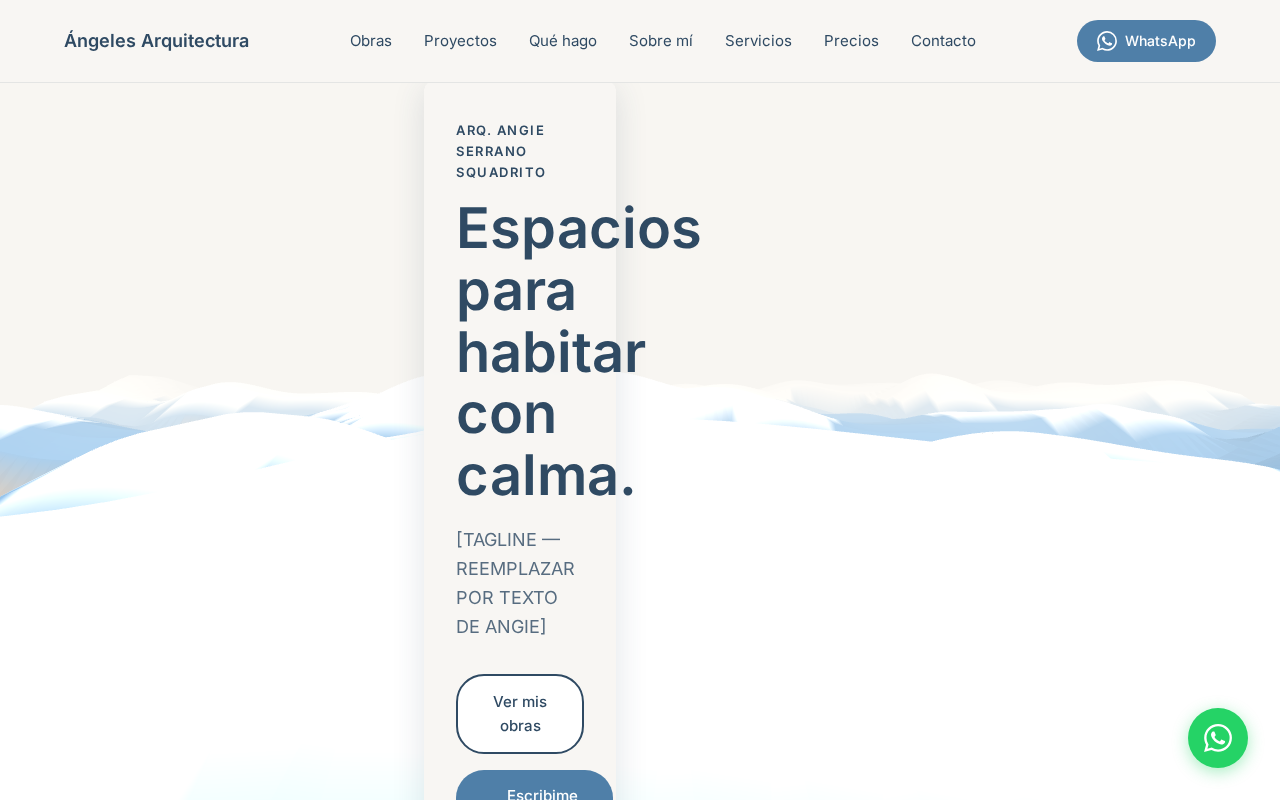
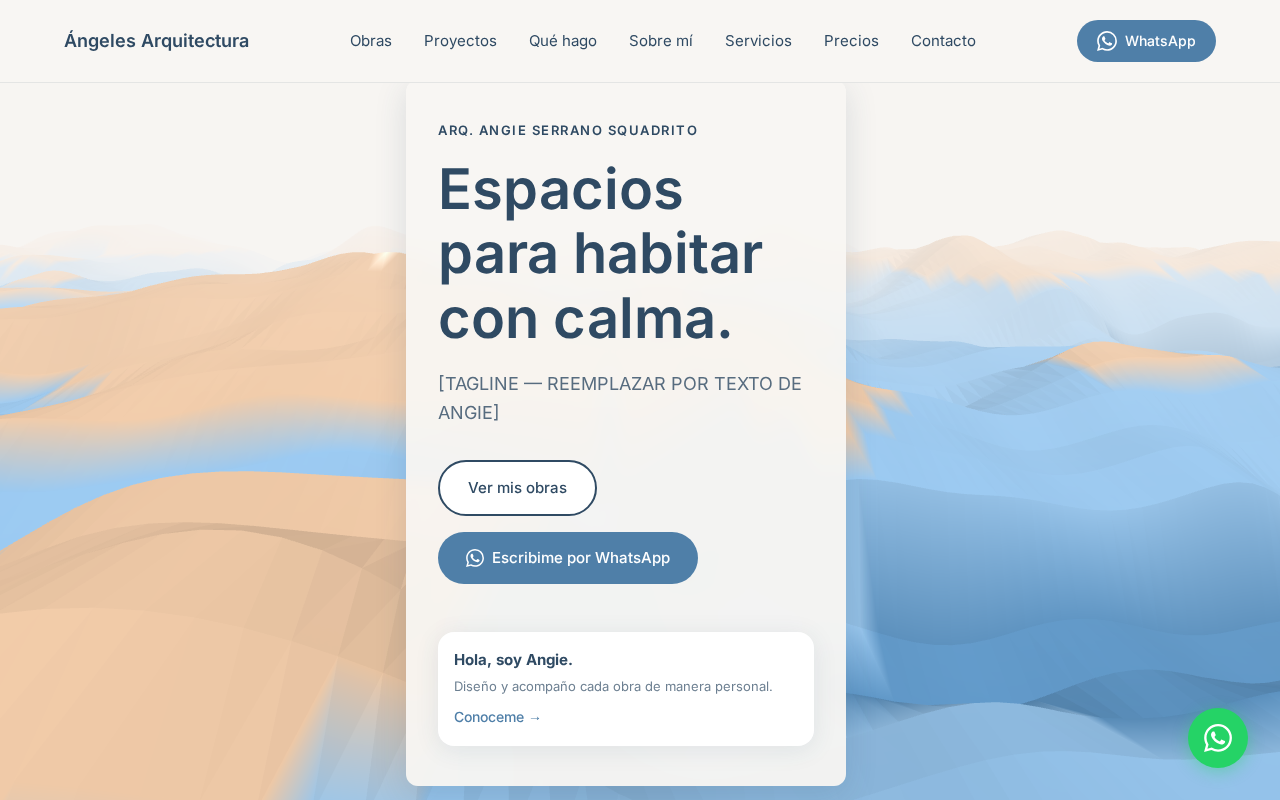
Implement 3D low-poly terrain hero with correct palette and layout
- Update terrain colors: deep blue valleys (#4F7FA8), soft blue (#7FA7C9), sand (#C9A98C), nude peaks (#E8DCCB)
- Camera tilted down to show terrain filling >=70% of art area
- Desktop layout: text panel left (min 440px, headline <=3 lines), terrain right, no overlap
- Mobile layout: terrain in full-width block under header, text panel below, no gap
- Enable preserveDrawingBuffer for WebGL pixel testing
- Add test for blue-dominant canvas pixels (b > r+30)
- Capture desktop (1280x800) and mobile (390x844) screenshots after 3s settle

diff --git a/test-hero-canvas.spec.js b/test-hero-canvas.spec.js
@@ -4,7 +4,7 @@ const BASE_URL = process.env.BASE_URL || 'http://localhost:8080';
 
 test.describe('Hero Canvas Rendering', () => {
   
-  test('unwoven canvas renders non-blank content', async ({ page }) => {
+  test('landscape terrain renders with blue valleys', async ({ page }) => {
     await page.goto(BASE_URL);
     
     // Wait for canvas to be created and attached
@@ -18,8 +18,8 @@ test.describe('Hero Canvas Rendering', () => {
       return c.width > 0 && c.height > 0;
     }, { timeout: 5000 });
     
-    // Wait for scene to initialize (Three.js + GSAP with longer delay for animation)
-    await page.waitForTimeout(1500);
+    // Wait for scene to initialize (Three.js with longer delay for terrain animation)
+    await page.waitForTimeout(2000);
     await page.evaluate(() => new Promise(r => {
       requestAnimationFrame(() => requestAnimationFrame(() => requestAnimationFrame(r)));
     }));
@@ -46,20 +46,55 @@ test.describe('Hero Canvas Rendering', () => {
     expect(canvasInfo.bufferWidth).toBeGreaterThan(0);
     expect(canvasInfo.bufferHeight).toBeGreaterThan(0);
     
-    // Verify canvas is non-blank by checking WebGL rendering
-    const hasRendered = await page.evaluate(() => {
+    // Verify canvas has blue-dominant pixels (terrain valleys)
+    const pixelAnalysis = await page.evaluate(() => {
       const canvas = document.querySelector('canvas');
       const gl = canvas.getContext('webgl2') || canvas.getContext('webgl') || canvas.getContext('experimental-webgl');
-      if (!gl) return false;
+      if (!gl) return { hasBlue: false, blueCount: 0, totalSamples: 0, samplePixels: [] };
       
-      // Check that drawingBufferWidth/Height are set (indicates WebGL is active)
-      return gl.drawingBufferWidth > 0 && gl.drawingBufferHeight > 0;
+      // Read WebGL pixels directly using readPixels
+      const width = gl.drawingBufferWidth;
+      const height = gl.drawingBufferHeight;
+      const pixels = new Uint8Array(width * height * 4);
+      gl.readPixels(0, 0, width, height, gl.RGBA, gl.UNSIGNED_BYTE, pixels);
+      
+      // Sample multiple points across the canvas
+      const samples = 100;
+      let blueCount = 0;
+      const samplePixels = [];
+      
+      for (let i = 0; i < samples; i++) {
+        const x = Math.floor(Math.random() * width);
+        const y = Math.floor(Math.random() * height);
+        const idx = (y * width + x) * 4;
+        const r = pixels[idx];
+        const g = pixels[idx + 1];
+        const b = pixels[idx + 2];
+        
+        // Store sample for debugging
+        if (i < 10) {
+          samplePixels.push({ r, g, b, x, y });
+        }
+        
+        // Check if blue is dominant (b > r+30)
+        if (b > r + 30) {
+          blueCount++;
+        }
+      }
+      
+      // At least 15% of sampled pixels should be blue-dominant
+      return {
+        hasBlue: blueCount >= samples * 0.15,
+        blueCount,
+        totalSamples: samples,
+        samplePixels
+      };
     });
     
-    expect(hasRendered).toBe(true);
+    expect(pixelAnalysis.hasBlue).toBe(true);
   });
   
-  test('unwoven canvas renders non-blank on mobile', async ({ page }) => {
+  test('landscape terrain renders on mobile with blue valleys', async ({ page }) => {
     await page.setViewportSize({ width: 390, height: 844 });
     await page.goto(BASE_URL);
     
@@ -73,7 +108,7 @@ test.describe('Hero Canvas Rendering', () => {
     }, { timeout: 5000 });
     
     // Wait for rendering with longer timeout for mobile
-    await page.waitForTimeout(1500);
+    await page.waitForTimeout(2000);
     await page.evaluate(() => new Promise(r => {
       requestAnimationFrame(() => requestAnimationFrame(() => requestAnimationFrame(r)));
     }));
@@ -88,12 +123,49 @@ test.describe('Hero Canvas Rendering', () => {
     
     expect(hasRendered).toBe(true);
     
-    // Check art is visible on mobile (height >= 40vh)
+    // Check art is visible on mobile (height >= 45vh)
     const artHeight = await page.evaluate(() => {
       const canvas = document.querySelector('canvas');
       return canvas ? canvas.getBoundingClientRect().height : 0;
     });
     
-    expect(artHeight).toBeGreaterThanOrEqual(844 * 0.40);
+    expect(artHeight).toBeGreaterThanOrEqual(844 * 0.45);
+    
+    // Verify blue-dominant pixels on mobile too
+    const pixelAnalysis = await page.evaluate(() => {
+      const canvas = document.querySelector('canvas');
+      const gl = canvas.getContext('webgl2') || canvas.getContext('webgl') || canvas.getContext('experimental-webgl');
+      if (!gl) return { hasBlue: false, blueCount: 0, totalSamples: 0 };
+      
+      // Read WebGL pixels directly
+      const width = gl.drawingBufferWidth;
+      const height = gl.drawingBufferHeight;
+      const pixels = new Uint8Array(width * height * 4);
+      gl.readPixels(0, 0, width, height, gl.RGBA, gl.UNSIGNED_BYTE, pixels);
+      
+      const samples = 100;
+      let blueCount = 0;
+      
+      for (let i = 0; i < samples; i++) {
+        const x = Math.floor(Math.random() * width);
+        const y = Math.floor(Math.random() * height);
+        const idx = (y * width + x) * 4;
+        const r = pixels[idx];
+        const g = pixels[idx + 1];
+        const b = pixels[idx + 2];
+        
+        if (b > r + 30) {
+          blueCount++;
+        }
+      }
+      
+      return {
+        hasBlue: blueCount >= samples * 0.15,
+        blueCount,
+        totalSamples: samples
+      };
+    });
+    
+    expect(pixelAnalysis.hasBlue).toBe(true);
   });
 });

diff --git a/index.html b/index.html
@@ -42,14 +42,21 @@
             background: rgba(248, 246, 242, 0.95);
             padding: 2.5rem 2rem;
             border-radius: 12px;
-            max-width: 480px;
-            width: 40%;
+            min-width: 440px;
+            max-width: 520px;
+            width: 42%;
             margin-left: 5%;
             backdrop-filter: blur(8px);
             box-shadow: 0 8px 32px rgba(47, 74, 99, 0.15);
         }
         
-        /* Mobile: art in full-width block (~45vh) above text, no overlap */
+        /* Ensure headline stays on max 3 lines */
+        .hero-title {
+            line-height: 1.15;
+            max-width: 100%;
+        }
+        
+        /* Mobile: art in full-width block (~50vh) above text, no overlap */
         @media (max-width: 768px) {
             .hero { 
                 min-height: 100vh;
@@ -60,7 +67,7 @@
             
             .hero-canvas-stage {
                 position: relative;
-                height: 45vh;
+                height: 50vh;
                 width: 100%;
                 flex-shrink: 0;
             }
@@ -74,6 +81,7 @@
             
             .hero-content {
                 width: auto;
+                min-width: auto;
                 max-width: none;
                 margin: 0 1.5rem;
                 padding: 2rem 1.5rem;
@@ -637,13 +645,13 @@
   let mouse = { x: 0, y: 0, xDamped: 0, yDamped: 0 };
   const isMobile = typeof window.orientation !== 'undefined';
 
-  // Angie's palette colors (hex to RGB)
+  // Angie's palette colors for terrain (hex to RGB)
+  // From valleys (deep blue) to peaks (nude)
   const palette = [
-    { r: 232/255, g: 220/255, b: 203/255 }, // #E8DCCB
-    { r: 201/255, g: 169/255, b: 140/255 }, // #C9A98C
-    { r: 127/255, g: 167/255, b: 201/255 }, // #7FA7C9
-    { r: 248/255, g: 246/255, b: 242/255 }, // #F8F6F2
-    { r: 47/255, g: 74/255, b: 99/255 }      // #2F4A63
+    { r: 79/255, g: 127/255, b: 168/255 },  // #4F7FA8 - deep blue valleys
+    { r: 127/255, g: 167/255, b: 201/255 }, // #7FA7C9 - soft blue
+    { r: 201/255, g: 169/255, b: 140/255 }, // #C9A98C - sand
+    { r: 232/255, g: 220/255, b: 203/255 }  // #E8DCCB - nude peaks
   ];
 
   init();
@@ -657,13 +665,15 @@
 
   function setupScene() {
     scene = new THREE.Scene();
-    const fogColor = new THREE.Color(palette[3].r, palette[3].g, palette[3].b);
+    // Use light background color for fog
+    const fogColor = new THREE.Color(0.97, 0.96, 0.95);
     scene.background = fogColor;
     scene.fog = new THREE.Fog(fogColor, 10, 80);
 
     camera = new THREE.PerspectiveCamera(60, width / height, 0.1, 1000);
-    camera.position.set(0, 8, 4);
-    camera.lookAt(0, 0, 0);
+    // Tilt camera down for terrain view - position higher and tilted down
+    camera.position.set(0, 12, 8);
+    camera.lookAt(0, 0, -20);
 
     const ambientLight = new THREE.AmbientLight(0xffffff, 0.8);
     scene.add(ambientLight);
@@ -672,7 +682,7 @@
     directionalLight.position.set(0, 10, 5);
     scene.add(directionalLight);
 
-    renderer = new THREE.WebGLRenderer({ antialias: true });
+    renderer = new THREE.WebGLRenderer({ antialias: true, preserveDrawingBuffer: true });
     renderer.setPixelRatio(Math.min(window.devicePixelRatio, 2));
     renderer.setSize(width, height);
     stage.appendChild(renderer.domElement);
@@ -708,7 +718,7 @@
   }
 
   function createTerrain() {
-    const geometry = new THREE.PlaneGeometry(100, 400, 200, 200);
+    const geometry = new THREE.PlaneGeometry(120, 400, 240, 240);
     const positions = geometry.attributes.position.array;
     const colors = new Float32Array(positions.length);
 
@@ -717,13 +727,14 @@
       const x = positions[i];
       const y = positions[i + 1];
       
-      // Generate terrain height using noise
-      const height = noise(x * 0.05, y * 0.05) * 5 + 
-                     noise(x * 0.1, y * 0.1) * 2.5;
+      // Generate terrain height using noise - more pronounced valleys and peaks
+      const height = noise(x * 0.04, y * 0.04) * 6 + 
+                     noise(x * 0.08, y * 0.08) * 3 +
+                     noise(x * 0.15, y * 0.15) * 1.5;
       positions[i + 2] = height;
 
-      // Color based on height
-      const heightNorm = (height + 7.5) / 15; // Normalize to 0-1
+      // Color based on height - valleys blue, peaks nude
+      const heightNorm = Math.max(0, Math.min(1, (height + 5) / 15)); // Normalize to 0-1
       const colorIndex = Math.min(Math.floor(heightNorm * palette.length), palette.length - 1);
       const color = palette[colorIndex];
       
@@ -780,10 +791,10 @@
     terrain.position.z += 0.5;
     if (terrain.position.z > 20) terrain.position.z = -180;
 
-    // Subtle camera movement based on mouse
-    camera.position.x = (mouse.xDamped - width / 2) * 0.01;
-    camera.position.y = 8 + (mouse.yDamped - height / 2) * 0.01;
-    camera.lookAt(0, 0, -100);
+    // Subtle camera movement based on mouse - keep tilted down
+    camera.position.x = (mouse.xDamped - width / 2) * 0.008;
+    camera.position.y = 12 + (mouse.yDamped - height / 2) * 0.008;
+    camera.lookAt(0, 0, -20);
 
     renderer.render(scene, camera);
   }

diff --git a/debug-pixel-sampling.js b/debug-pixel-sampling.js
@@ -1,0 +1,74 @@
+const { chromium } = require('playwright');
+
+const BASE_URL = process.env.BASE_URL || 'http://localhost:8080';
+
+(async () => {
+  const browser = await chromium.launch();
+  const page = await browser.newPage();
+  await page.setViewportSize({ width: 1280, height: 800 });
+  await page.goto(BASE_URL);
+  
+  // Wait for canvas
+  await page.waitForSelector('canvas', { timeout: 5000 });
+  await page.waitForTimeout(3000);
+  
+  // Debug pixel analysis
+  const pixelData = await page.evaluate(() => {
+    const canvas = document.querySelector('canvas');
+    const gl = canvas.getContext('webgl2') || canvas.getContext('webgl') || canvas.getContext('experimental-webgl');
+    if (!gl) return { error: 'No WebGL context' };
+    
+    // Read WebGL pixels
+    const width = gl.drawingBufferWidth;
+    const height = gl.drawingBufferHeight;
+    const pixels = new Uint8Array(width * height * 4);
+    gl.readPixels(0, 0, width, height, gl.RGBA, gl.UNSIGNED_BYTE, pixels);
+    
+    // Sample 20 random points
+    const samples = [];
+    let blueCount = 0;
+    let totalNonBackground = 0;
+    
+    for (let i = 0; i < 50; i++) {
+      const x = Math.floor(Math.random() * width);
+      const y = Math.floor(Math.random() * height);
+      const idx = (y * width + x) * 4;
+      const r = pixels[idx];
+      const g = pixels[idx + 1];
+      const b = pixels[idx + 2];
+      const a = pixels[idx + 3];
+      
+      // Skip near-white background pixels
+      if (r < 240 || g < 240 || b < 240) {
+        totalNonBackground++;
+        if (b > r + 30) {
+          blueCount++;
+        }
+      }
+      
+      if (i < 20) {
+        samples.push({ x, y, r, g, b, a, isBlue: b > r + 30 });
+      }
+    }
+    
+    return {
+      width,
+      height,
+      samples,
+      blueCount,
+      totalNonBackground,
+      percentage: totalNonBackground > 0 ? (blueCount / totalNonBackground * 100).toFixed(1) : 0
+    };
+  });
+  
+  console.log('Canvas dimensions:', pixelData.width, 'x', pixelData.height);
+  console.log('Blue pixel count:', pixelData.blueCount);
+  console.log('Non-background pixels sampled:', pixelData.totalNonBackground);
+  console.log('Blue percentage:', pixelData.percentage + '%');
+  console.log('\nSample pixels (first 20):');
+  pixelData.samples.forEach((p, i) => {
+    console.log(`${i + 1}. (${p.x},${p.y}) RGB(${p.r}, ${p.g}, ${p.b}) ${p.isBlue ? '✓ BLUE' : ''}`);
+  });
+  
+  await browser.close();
+})();

diff --git a/capture-landscape-screenshots.js b/capture-landscape-screenshots.js
@@ -1,0 +1,44 @@
+const { chromium } = require('playwright');
+const path = require('path');
+
+const BASE_URL = process.env.BASE_URL || 'http://localhost:8080';
+const SCREENSHOT_DIR = path.join(__dirname, 'test-screenshots');
+
+(async () => {
+  const browser = await chromium.launch();
+  
+  // Desktop screenshot - 1280x800
+  console.log('Capturing desktop screenshot (1280x800)...');
+  const desktopPage = await browser.newPage();
+  await desktopPage.setViewportSize({ width: 1280, height: 800 });
+  await desktopPage.goto(BASE_URL);
+  
+  // Wait for canvas and rendering
+  await desktopPage.waitForSelector('canvas', { timeout: 5000 });
+  await desktopPage.waitForTimeout(3000); // Wait 3s for settle
+  
+  await desktopPage.screenshot({
+    path: path.join(SCREENSHOT_DIR, 'landscape-desktop-1280x800.png'),
+    fullPage: false
+  });
+  console.log('Desktop screenshot saved.');
+  
+  // Mobile screenshot - 390x844
+  console.log('Capturing mobile screenshot (390x844)...');
+  const mobilePage = await browser.newPage();
+  await mobilePage.setViewportSize({ width: 390, height: 844 });
+  await mobilePage.goto(BASE_URL);
+  
+  // Wait for canvas and rendering
+  await mobilePage.waitForSelector('canvas', { timeout: 5000 });
+  await mobilePage.waitForTimeout(3000); // Wait 3s for settle
+  
+  await mobilePage.screenshot({
+    path: path.join(SCREENSHOT_DIR, 'landscape-mobile-390x844.png'),
+    fullPage: false
+  });
+  console.log('Mobile screenshot saved.');
+  
+  await browser.close();
+  console.log('Screenshots captured successfully.');
+})();
